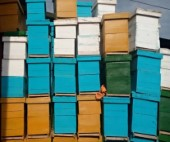
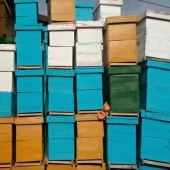
Feat: Fix the mismatch of photos
- Add the real images

diff --git a/public/css/style.css b/public/css/style.css
@@ -63,7 +63,7 @@ body {
   padding-right: 30px;
   min-height: auto;
   margin-bottom: 0;
-  background: #0066337a;
+  background: #8a830297;
 }
 
 #header .navbar-brand {
@@ -102,7 +102,7 @@ body {
 
 #header .navbar ul li ul li a:hover {
   color: #fff;
-  background: #006633;
+  background: #8a830297;
 }
 
 #header .navbar-default .navbar-nav>.active>a, .navbar-default .navbar-nav>.active>a:focus, .navbar-default .navbar-nav>.active>a:hover {
@@ -122,8 +122,8 @@ body {
 }
 
 #header .navbar .btn {
-  background: #006633;
-  border-color: #006633;
+  background: #8a830297;
+  border-color: #8a830297;
 }
 
 /********************* header_end ***************/
@@ -168,7 +168,7 @@ body {
   font-size: 15px;
   font-weight: 700;
   padding: 18px 30px 18px 30px;
-  background: #006633;
+  background: #8a830297;
   text-decoration: none;
 }
 
@@ -243,7 +243,7 @@ body {
   display: block;
   text-align: center;
   font-size: 70px;
-  color: #006633;
+  color: #8a830297;
 }
 
 /********************* center_2_end ***************/
@@ -257,7 +257,7 @@ body {
 .center_3 h2 {
   text-align: center;
   font-size: 55px;
-  color: #006633;
+  color: #8a830297;
   font-weight: 700;
   margin-top: 0;
   padding-top: 0;
@@ -533,7 +533,7 @@ body {
   font-size: 56px;
   font-weight: 700;
   padding-bottom: 20px;
-  color: #006633;
+  color: #8a830297;
 }
 
 .menu_main_right_inner_middle p {
@@ -577,7 +577,7 @@ body {
   font-size: 40px;
   font-weight: 700;
   text-align: center;
-  color: #006633;
+  color: #8a830297;
 }
 
 .center_4 p {
@@ -800,7 +800,7 @@ figure.effect-layla:hover img {
   font-size: 60px;
   font-weight: 700;
   text-align: center;
-  color: #006633;
+  color: #8a830297;
 }
 
 .hr_3 {
@@ -1192,7 +1192,7 @@ figure.effect-layla:hover img {
   font-size: 36px;
   font-weight: 700;
   text-align: center;
-  color: #006633;
+  color: #8a830297;
 }
 
 .center_6 p {
@@ -1224,7 +1224,7 @@ figure.effect-layla:hover img {
   padding-left: 30px;
   padding-bottom: 20px;
   font-size: 22px;
-  color: #006633;
+  color: #8a830297;
   font-weight: bold;
 }
 
@@ -1240,7 +1240,7 @@ figure.effect-layla:hover img {
   text-decoration: none;
   border-radius: 2px;
   color: #fff;
-  background: #006633;
+  background: #8a830297;
 }
 
 .center_6_bottom p a:hover {
@@ -1259,7 +1259,7 @@ figure.effect-layla:hover img {
   font-size: 36px;
   font-weight: 700;
   text-align: center;
-  color: #006633;
+  color: #8a830297;
 }
 
 .center_7 p {
@@ -1318,7 +1318,7 @@ figure.effect-layla:hover img {
 .center_8 h2 {
   font-size: 50px;
   font-weight: 700;
-  color: #006633;
+  color: #8a830297;
   margin-top: 0;
   padding-top: 0;
 }
@@ -1334,13 +1334,13 @@ figure.effect-layla:hover img {
   margin-top: 10px;
   font-size: 70px;
   font-weight: 700;
-  color: #006633;
+  color: #8a830297;
 }
 
 .boxer {
   background: #fff;
   transition: all 0.2s ease;
-  border: 2px dashed #006633;
+  border: 2px dashed #8a830297;
   margin-top: 10px;
   box-sizing: border-box;
   border-radius: 5px;
@@ -1350,7 +1350,7 @@ figure.effect-layla:hover img {
 }
 
 .boxer:hover {
-  border: 2px solid #006633;
+  border: 2px solid #8a830297;
 }
 
 .boxer span.box-title {
@@ -1383,8 +1383,8 @@ figure.effect-layla:hover img {
 }
 
 .boxer .btn-primary {
-  background: #006633;
-  border-color: #006633;
+  background: #8a830297;
+  border-color: #8a830297;
   font-size: 20px;
 }
 
@@ -1392,7 +1392,7 @@ figure.effect-layla:hover img {
 
 /********************* footer ***************/
 #footer {
-  background: #006633;
+  background: #8a830297;
   padding-top: 40px;
   padding-bottom: 20px;
 }
@@ -1434,7 +1434,7 @@ figure.effect-layla:hover img {
   font-weight: 700;
   text-decoration: none;
   border-radius: 50%;
-  color: #006633;
+  color: #8a830297;
   background: #FFFFFF;
 }
 
@@ -1449,7 +1449,7 @@ figure.effect-layla:hover img {
   font-weight: 700;
   text-decoration: none;
   border-radius: 50%;
-  color: #006633;
+  color: #8a830297;
   background: #FFFFFF;
 }
 
@@ -1464,7 +1464,7 @@ figure.effect-layla:hover img {
   font-weight: 700;
   text-decoration: none;
   border-radius: 50%;
-  color: #006633;
+  color: #8a830297;
   background: #FFFFFF;
 }
 
@@ -1534,7 +1534,7 @@ figure.effect-layla:hover img {
   text-align: center;
   font-size: 50px;
   font-weight: 700;
-  color: #006633;
+  color: #8a830297;
   padding-top: 25px;
 }
 
@@ -1585,7 +1585,7 @@ figure.effect-layla:hover img {
 }
 
 .con_bg {
-  background-image: url(../img/logo_img.jpg) !important;
+  background-image: url(../img/logo_img.png) !important;
 }
 
 .center_3_top_o {
@@ -1621,7 +1621,7 @@ figure.effect-layla:hover img {
 
 .details_right_inner h2 {
   font-size: 22px;
-  color: #006633;
+  color: #8a830297;
   padding-left: 50px;
   padding-right: 30px;
   font-weight: bold;
@@ -1755,8 +1755,8 @@ figure.effect-duke:hover p {
 
 .contact_center_left h4 {
   font-size: 28px;
-  font-weight: bold;
-  color: #006633;
+  font-weight: bold;  
+  color: #8a830297;
 }
 
 .contact_center_left p {
@@ -1765,7 +1765,7 @@ figure.effect-duke:hover p {
 
 .contact_center_left p a {
   font-size: 18px;
-  color: #006633;
+  color: #8a830297;
   font-weight: bold;
 }
 
@@ -1774,14 +1774,14 @@ a:hover {
 }
 
 .contact_center_right .btn {
-  background: #006633;
-  border-color: #006633;
+  background: #8a830297;
+  border-color: #8a830297;
   font-size: 18px;
 }
 
 .contact_center_right .form-control {
   font-size: 18px;
-  border-color: #006633;
+  border-color: #8a830297;
 }
 
 .contact_new {
@@ -1921,7 +1921,7 @@ a:hover {
 
   #header .navbar-default {
     border: none !important;
-    background: #006633;
+    background: #8a830297;
   }
 
   .navbar-toggle:hover {
@@ -2021,7 +2021,7 @@ a:hover {
 
   #header .navbar-default {
     border: none !important;
-    background: #006633;
+    background: #8a830297;
   }
 
   .navbar-toggle:hover {

diff --git a/index.js b/index.js
@@ -1,6 +1,5 @@
 const express = require("express");
 const path = require("path");
-const bodyParser = require("body-parser");
 const multer = require("multer");
 const upload = multer();
 
